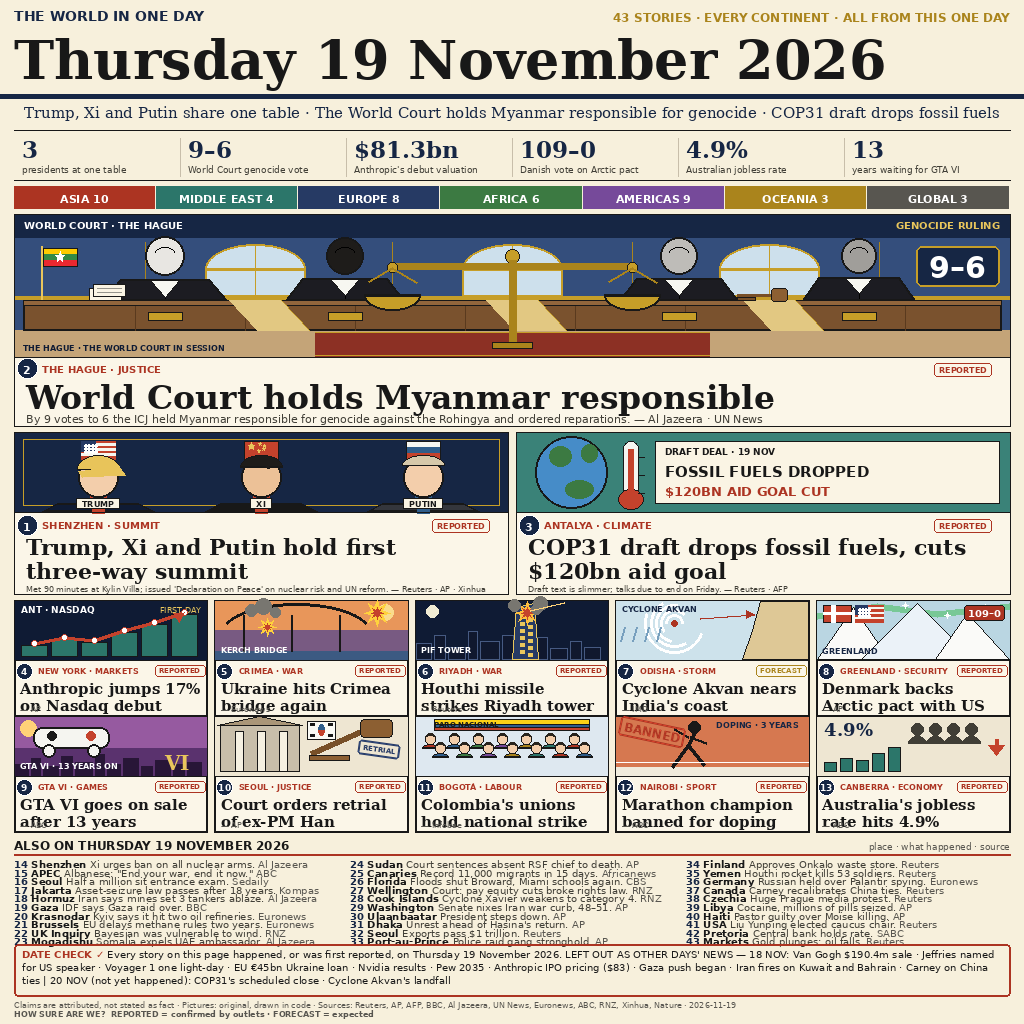
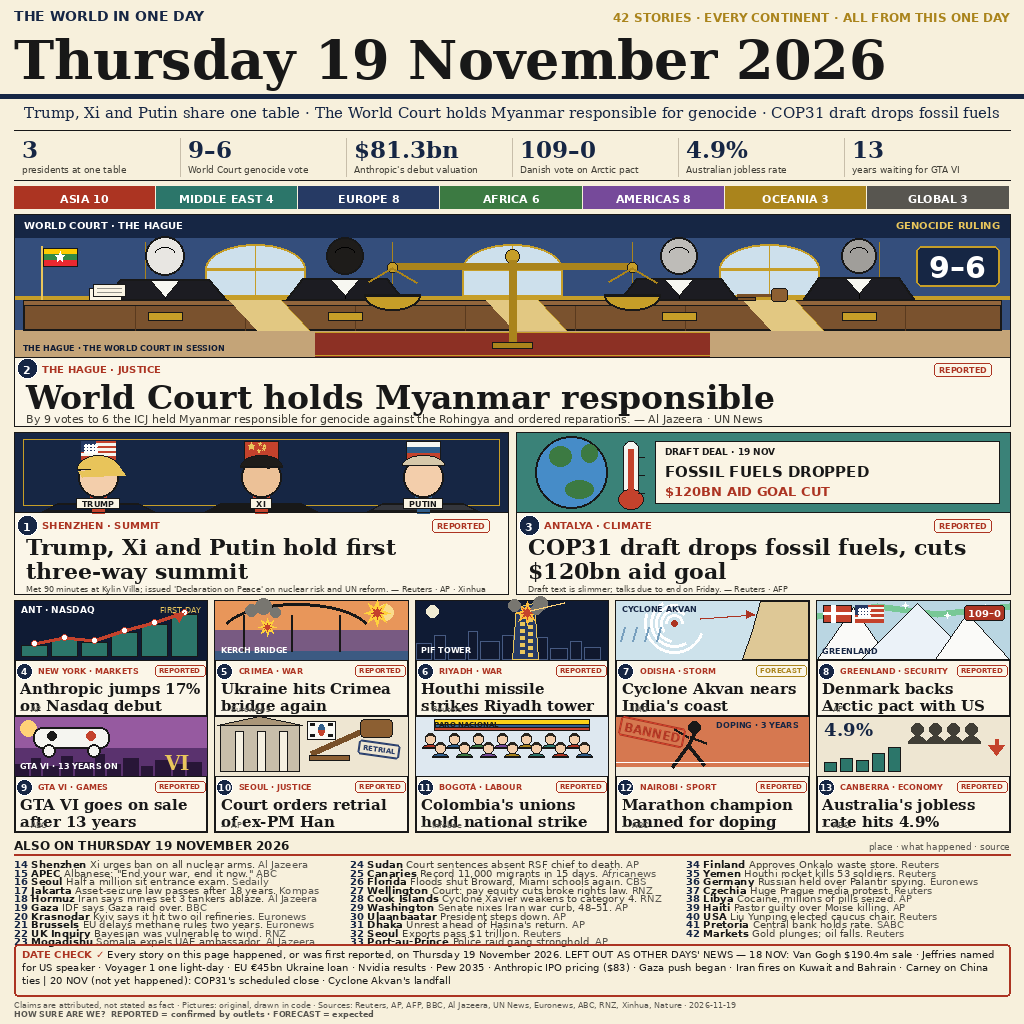
v6.1 — S3 Carney fix (gate: lanjut sampe terpenuhi): brief #37 Carney hapus (berita 18 Nov, bukan 19 Nov) + renumber 38-43 jadi 37-42, 43 jadi 42 cerita, AMERICAS 9 jadi 8; DATE CHECK left-out Carney tetap; entry.png sha 8fabd158

Changed region(s): [[0.6875, 0.8438, 0.9062, 0.9375]]

diff --git a/draw.py b/draw.py
@@ -246,7 +246,7 @@ def flag_mm(d, x, y, w, h):
 
 
 # ---------------------------------------------------------------- data
-# Regions per story 1..43 (counts checked in render()).
+# Regions per story 1..42 (counts checked in render()).
 REGIONS = {
     1: "ASIA", 2: "EUROPE", 3: "GLOBAL", 4: "AMERICAS", 5: "EUROPE",
     6: "MIDDLE EAST", 7: "ASIA", 8: "AMERICAS", 9: "GLOBAL", 10: "ASIA",
@@ -255,14 +255,14 @@ REGIONS = {
     20: "EUROPE", 21: "EUROPE", 22: "EUROPE", 23: "AFRICA", 24: "AFRICA",
     25: "AFRICA", 26: "AMERICAS", 27: "OCEANIA", 28: "OCEANIA",
     29: "AMERICAS", 30: "ASIA", 31: "ASIA", 32: "ASIA", 33: "AMERICAS",
-    34: "EUROPE", 35: "MIDDLE EAST", 36: "EUROPE", 37: "AMERICAS",
-    38: "EUROPE", 39: "AFRICA", 40: "AMERICAS", 41: "AMERICAS",
-    42: "AFRICA", 43: "GLOBAL",
+    34: "EUROPE", 35: "MIDDLE EAST", 36: "EUROPE", 37: "EUROPE",
+    38: "AFRICA", 39: "AMERICAS", 40: "AMERICAS",
+    41: "AFRICA", 42: "GLOBAL",
 }
 REGION_ORDER = ["ASIA", "MIDDLE EAST", "EUROPE", "AFRICA", "AMERICAS",
                 "OCEANIA", "GLOBAL"]
 REGION_TOTALS = {"ASIA": 10, "MIDDLE EAST": 4, "EUROPE": 8, "AFRICA": 6,
-                 "AMERICAS": 9, "OCEANIA": 3, "GLOBAL": 3}
+                 "AMERICAS": 8, "OCEANIA": 3, "GLOBAL": 3}
 
 NUMBERS = [
     ("3", "presidents at one table"),
@@ -307,7 +307,7 @@ CARDS = [
      "REPORTED", "canberra"),
 ]
 
-# Briefs 14..43: num, place, one short clause, source.
+# Briefs 14..42: num, place, one short clause, source.
 # v5: 20 briefs (was 25), each a single short clause, so the bottom
 # band reads as organised lines instead of grey mush at 300px.
 # Cut vs v4: Rome obit, Zurich FIFA rivals, Pretoria rate hold,
@@ -340,13 +340,12 @@ BRIEFS = [
     (34, "Finland", "Approves Onkalo waste store.", "Reuters"),
     (35, "Yemen", "Houthi rocket kills 53 soldiers.", "Reuters"),
     (36, "Germany", "Russian held over Palantir spying.", "Euronews"),
-    (37, "Canada", "Carney recalibrates China ties.", "Reuters"),
-    (38, "Czechia", "Huge Prague media protest.", "Reuters"),
-    (39, "Libya", "Cocaine, millions of pills seized.", "AP"),
-    (40, "Haiti", "Pastor guilty over Moïse killing.", "AP"),
-    (41, "USA", "Liu Yunping elected caucus chair.", "Reuters"),
-    (42, "Pretoria", "Central bank holds rate.", "SABC"),
-    (43, "Markets", "Gold plunges; oil falls.", "Reuters"),
+    (37, "Czechia", "Huge Prague media protest.", "Reuters"),
+    (38, "Libya", "Cocaine, millions of pills seized.", "AP"),
+    (39, "Haiti", "Pastor guilty over Moïse killing.", "AP"),
+    (40, "USA", "Liu Yunping elected caucus chair.", "Reuters"),
+    (41, "Pretoria", "Central bank holds rate.", "SABC"),
+    (42, "Markets", "Gold plunges; oil falls.", "Reuters"),
 ]
 
 DATE_CHECK = ("DATE CHECK ✓ Every story on this page happened, or was first "
@@ -1063,14 +1062,14 @@ def one_brief(d, x, y, maxw, num, place, sentence, source):
 def render():
     global _CUR_IMG
     # ---- data integrity checks (fail loudly, never silently mis-count)
-    assert sorted(REGIONS) == list(range(1, 44)), "story numbers 1-43"
+    assert sorted(REGIONS) == list(range(1, 43)), "story numbers 1-42"
     counts = {}
     for r in REGIONS.values():
         counts[r] = counts.get(r, 0) + 1
     assert counts == REGION_TOTALS, f"region counts {counts}"
     assert sorted(n for n, *_ in CARDS) == list(range(4, 14))
-    assert sorted(n for n, *_ in BRIEFS) == list(range(14, 44))
-    assert len(CARDS) + len(BRIEFS) + 3 == 43, "43 stories total"
+    assert sorted(n for n, *_ in BRIEFS) == list(range(14, 43))
+    assert len(CARDS) + len(BRIEFS) + 3 == 42, "42 stories total"
 
     img = Image.new("RGBA", (W, H), CREAM + (255,))
     _CUR_IMG = img
@@ -1078,7 +1077,7 @@ def render():
 
     # ---- 1. masthead (navy rule under a giant serif date)
     d.text((M, 8), "THE WORLD IN ONE DAY", font=sans_b(14), fill=NAVY)
-    right = "43 STORIES · EVERY CONTINENT · ALL FROM THIS ONE DAY"
+    right = "42 STORIES · EVERY CONTINENT · ALL FROM THIS ONE DAY"
     d.text((W - M - d.textlength(right, font=sans_b(12)), 10), right,
            font=sans_b(12), fill=GOLD_D)
     date_font, _ = shrink_to_fit(d, "Thursday 19 November 2026", serif_b, 54, CW)
@@ -1159,7 +1158,7 @@ def render():
             small_card(d, img, cx, cy, gw, 116, num, kicker, head, deck,
                        SCENES[key], tag)
 
-    # ---- 7. bottom: ALSO briefs, full width (v6: 30 briefs, 3 cols x 10;
+    # ---- 7. bottom: ALSO briefs, full width (v6.1: 29 briefs, 3 cols;
     # the small map is dropped — it read as a beige smudge at 300px,
     # and the +10 stories flip C2 vs #51's 42 instead)
     bx = M
